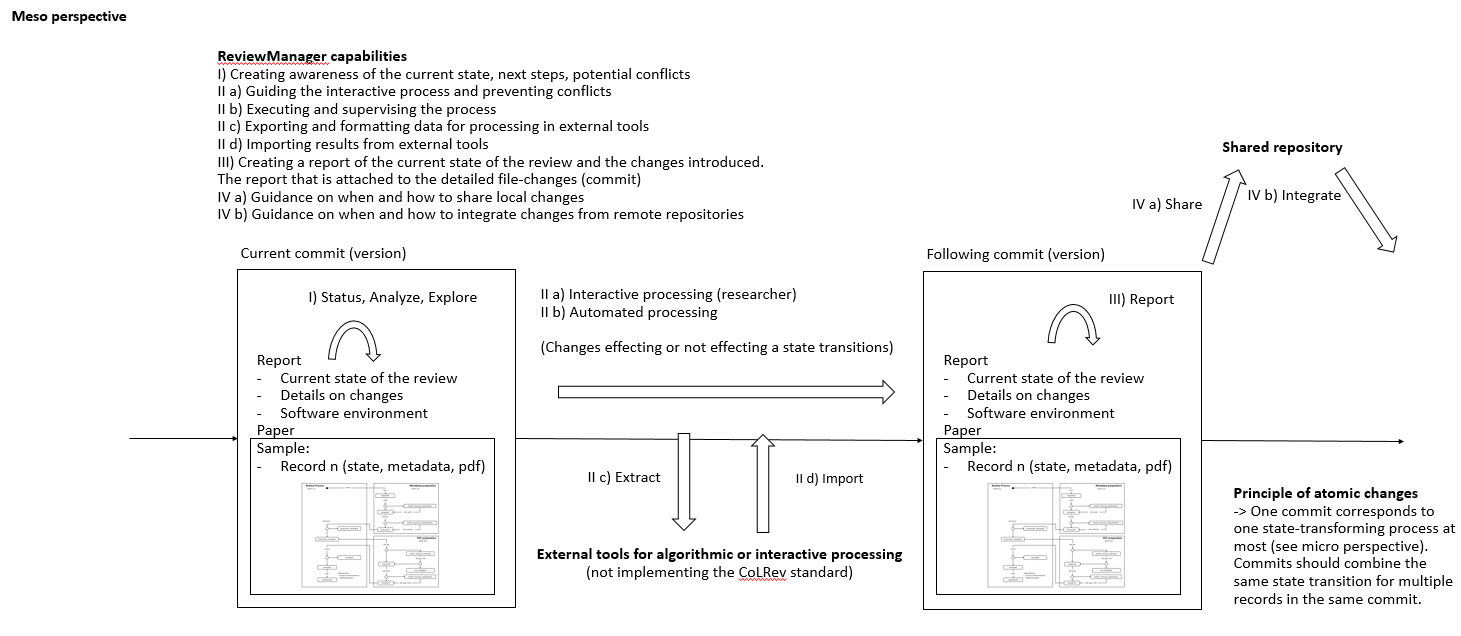
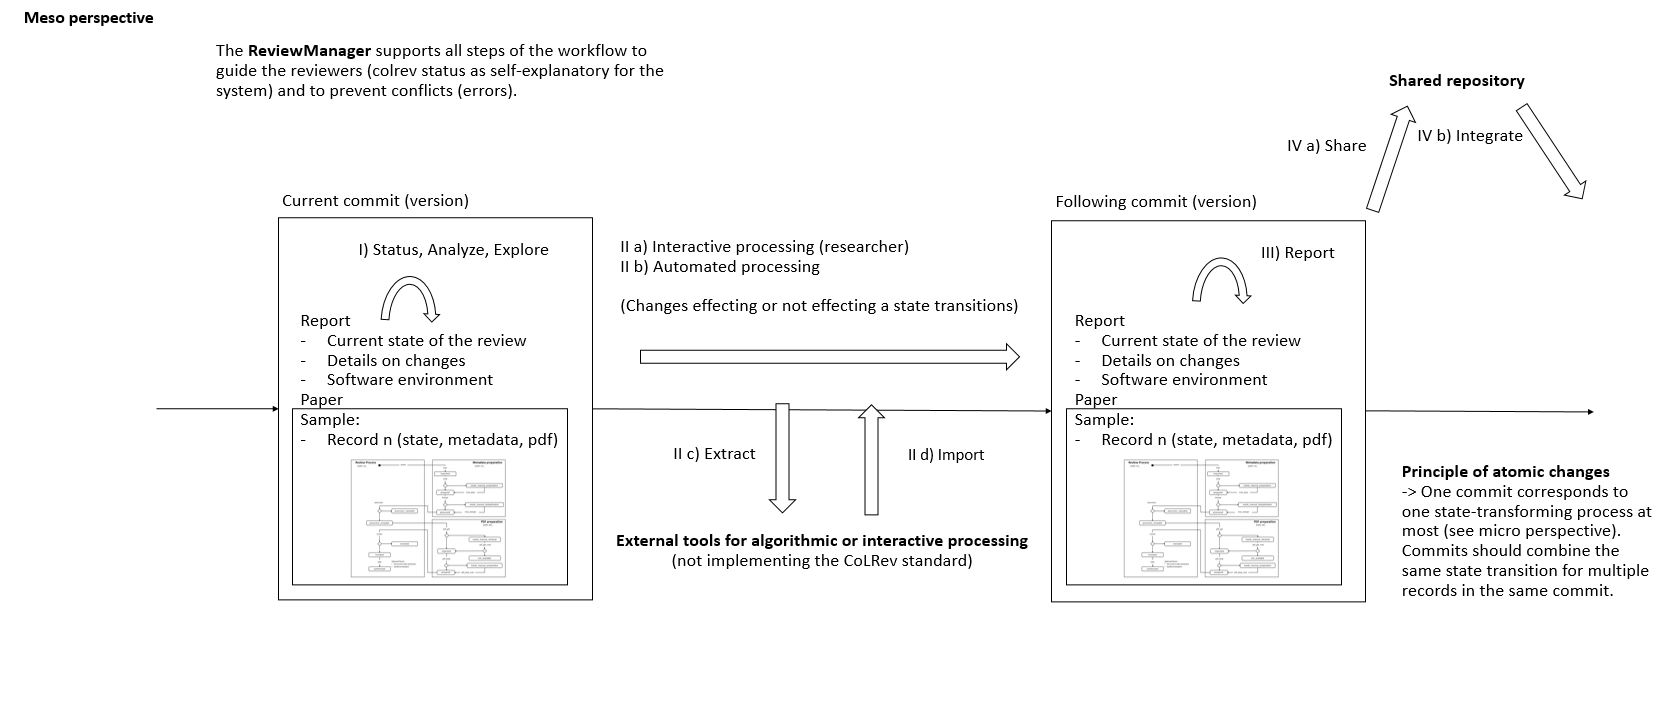
update readme

diff --git a/README.md b/README.md
@@ -133,30 +133,85 @@ In addition, the ReviewManager keeps a detailed report of (1) the review environ
 ## Data
 
 The CoLRev framework is based on an oppinionated and well-justified selection of data structures, file-paths and operating principles.
-Ideally, constraining the set of possible data formatting and storage options improves workflow efficiency (because tools and coauthors share the same philosophy of data) without any side-effects on the anaylsis and synthesis process/outcomes.
+Ideally, constraining the set of possible data formatting and storage options improves workflow efficiency (because tools and researchers share the same philosophy of data) without any side-effects on the anaylsis and synthesis process/outcomes.
 
-Raw data sources
-- Transformed to BibTex by CoLRev to facilitate more efficient processing
-- Can be immutable (e.g., results extracted from databases) * Exception: fixing incompatibilities with BibTex Standard
-- Can be in append-mode or even update-mode (e.g., for feeds that regularly query databases or indices like Crossref)
+The main goal of data structuring is to give users a transparent overview of (1) the detailed changes that were made, (2) by whom, and (3) why.
+Having access to these data and being able ot analyze them efficiently is of critical importance to
 
-- MAIN_REFERENCES containing all [records](figures/record.png)
+1. develop confidence in the review process,
+2. communicate and justify the trustworthiness of the results,
+3. improve individual contributions (e.g., train research assistants, to validate algorithms),
+4. be in a position to identify and remove contributions of individuals (algorithms or researchers) in case systematic errors are introduced,
+5. efficiently extract data on individual steps (e.g., deduplication) for reuse (e.g., crowdsourcing)
 
-- Data structure (origin, md_status, rev_status, pdf_status, ... (first fields fixed to enable efficient status checks), metadata_source (from the beginning) as a long field/key to avoid indentation changes, ordering according to IDs - trying to set the final IDs in the load stages)
-- BibTex:
-  - Quasi-standard format that is supported by most reference managers and literature review tools for input/output [1](https://en.wikipedia.org/wiki/Comparison_of_reference_management_software).
-  - BibTex is easier for humans to analyze in git-diffs because field names are not abbreviated (this is not the case for Endnote .enl or .ris formats), it is line-based (column-based formats like csv are hard to analyze in git diffs), and it contains few syntactic markup that makes it difficult to read (e.g., XML or MODS).
-  - BibTex is easy to edit manually (in contrast to JSON) and does not force users to prepare the whole dataset at a very granular level (like CSL-JSON/YAML, which requires each author name to be split into the first, middle, and last name).
-  - BibTex can be augmented (including additional fields for the record origin, status, etc.)
+Examples of transparency in different stages are provided below.
 
-One important feature of CoLRev is that it tracks a status for each record.
+To accomplish these goals, CoLRev tracks a status for each record.
 
 - The status is used to determine the current state of the review project
 - It is used by the ReviewManager to determine which operations are valid according to the processing order (e.g., records must be prepared before they are considered for duplicate removal, PDFs have to be acquired before the main inclusion screen)
 - Tracking record status enables incremental duplicate detection (record pairs that have passed deduplication once do not need to be checked again in the next iterations)
 - Strictly adhering to the state machine allows us to rely on a simple data structure (e.g., status="synthesized" implies pdf-prepared, md-prepared, included, prescreen-included - no need to check consistency between different screening decisions)
 
-<img src="figures/micro_framework.png" width="900">
+<img src="figures/micro_framework.png" width="1000">
+
+Examples of transparency in preparation, deduplication, and screening:
+
+<img src="figures/change_example1.png" width="1000">
+
+Note : in this case, we see that the record was prepared (changing the status from ```md_imported``` to ```md_prepared```) based on the LINKED_URL (as explained by the ```metadata_source``` field).
+The doi was extracted from the website (url) and used to update and complete the metadata (after checking whether it corresponds with the existing ```title```, ```author```, .... fields).
+The processing report (part of the commit message) provides further details.
+
+<img src="figures/change_example2.png" width="1000">
+
+**TODO**: include examples for deduplication and screening.
+
+
+Raw data sources
+- Transformed to BibTex by CoLRev to facilitate more efficient processing
+- Can be immutable (e.g., results extracted from databases) * Exception: fixing incompatibilities with BibTex Standard
+- Can be in append-mode or even update-mode (e.g., for feeds that regularly query databases or indices like Crossref)
+
+The MAIN_REFERENCES contain all records. They are sorted according to IDs, which makes it easy to examine deduplication decisions. Once propagated to the review process (the prescreen), the ID field (e.g., BaranBerkowicz2021) is considered immutable and used to identify the record throughout the review process.
+To facilitate an efficient visual analysis of deduplication decisions (and preparation changes), CoLRev attempts to set the final IDs (based on formatted and completed metadata) when importing records into the MAIN_REFERENCEs (IDs may be updated until the deduplication step if the author and year fields change).
+
+ID formats, such as three-author+year (automatically generated by CoLRev), is recommended because
+
+  - semantic IDs are easier to remember (compared to arbitrary ones like DOIs or numbers that are incremented),
+  - global identifiers (like DOIs or Web of Science accession numbers) are not available for every record (such as conference papers, books, or unpublished reports),
+  - shorter formats (like first-author+year) may often require arbitrary suffixes
+
+Individual records in the MAIN_REFERENCES are augmented with
+
+- the ```status``` field to track the current state of each record in the review process and to facilitate efficient analyses of changes (without jumping between a references file and a screening sheet/data sheet/manuscript)
+- the ```origin``` field to enable traceability and analyses (in both directions)
+
+
+The order of the first fields is fixed to enable efficient status checks.
+
+```bibtex
+@article{BaranBerkowicz2021,
+  origin          = {PoPCites.bibtex.bib/pop00082},
+  status          = {md_prepared},
+  metadata_source = {LINKED_URL},
+  doi             = {10.3390/su13116494},
+  author          = {Baran, Grzegorz and Berkowicz, Aleksandra},
+  journal         = {Sustainability},
+  title           = {Digital Platform Ecosystems as Living Labs for Sustainable Entrepreneurship and Innovation},
+  year            = {2021},
+  number          = {11},
+  volume          = {13},
+  url             = {https://www.mdpi.com/2071-1050/13/11/6494/pdf},
+}
+```
+
+BibTex:
+
+- Quasi-standard format that is supported by most reference managers and literature review tools for input/output [1](https://en.wikipedia.org/wiki/Comparison_of_reference_management_software).
+- BibTex is easier for humans to analyze in git-diffs because field names are not abbreviated (this is not the case for Endnote .enl or .ris formats), it is line-based (column-based formats like csv are hard to analyze in git diffs), and it contains less syntactic markup that makes it difficult to read (e.g., XML or MODS).
+- BibTex is easy to edit manually (in contrast to JSON) and does not force users to prepare the whole dataset at a very granular level (like CSL-JSON/YAML, which requires each author name to be split into the first, middle, and last name).
+- BibTex can be augmented (including additional fields for the record origin, status, etc.)
 
 ## Extension development and best practices
 
